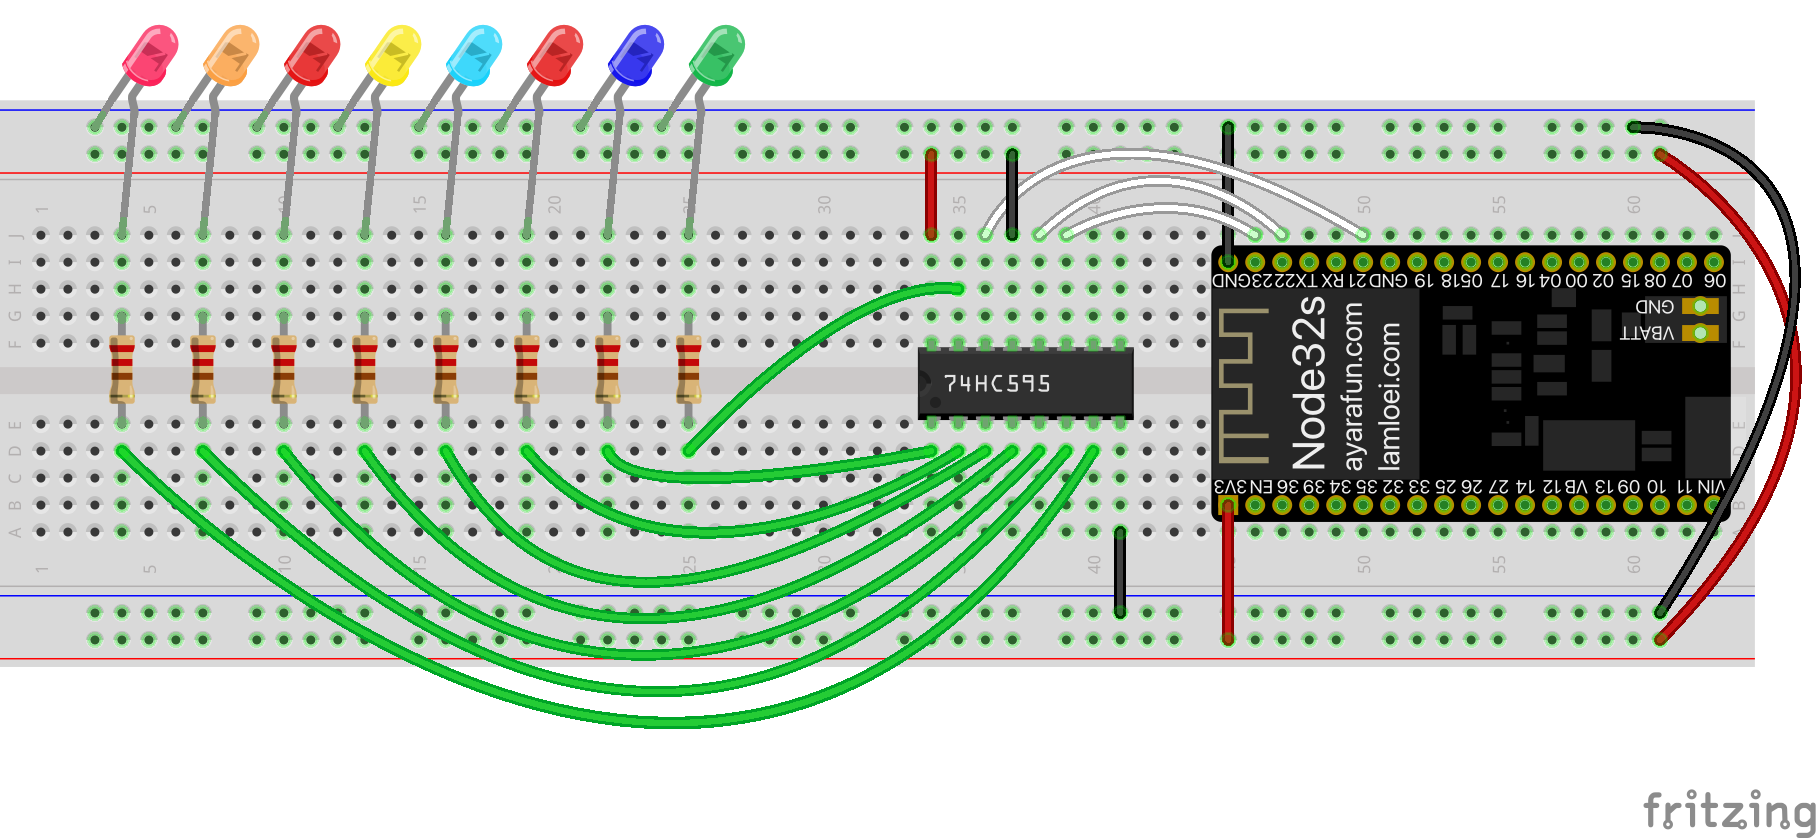
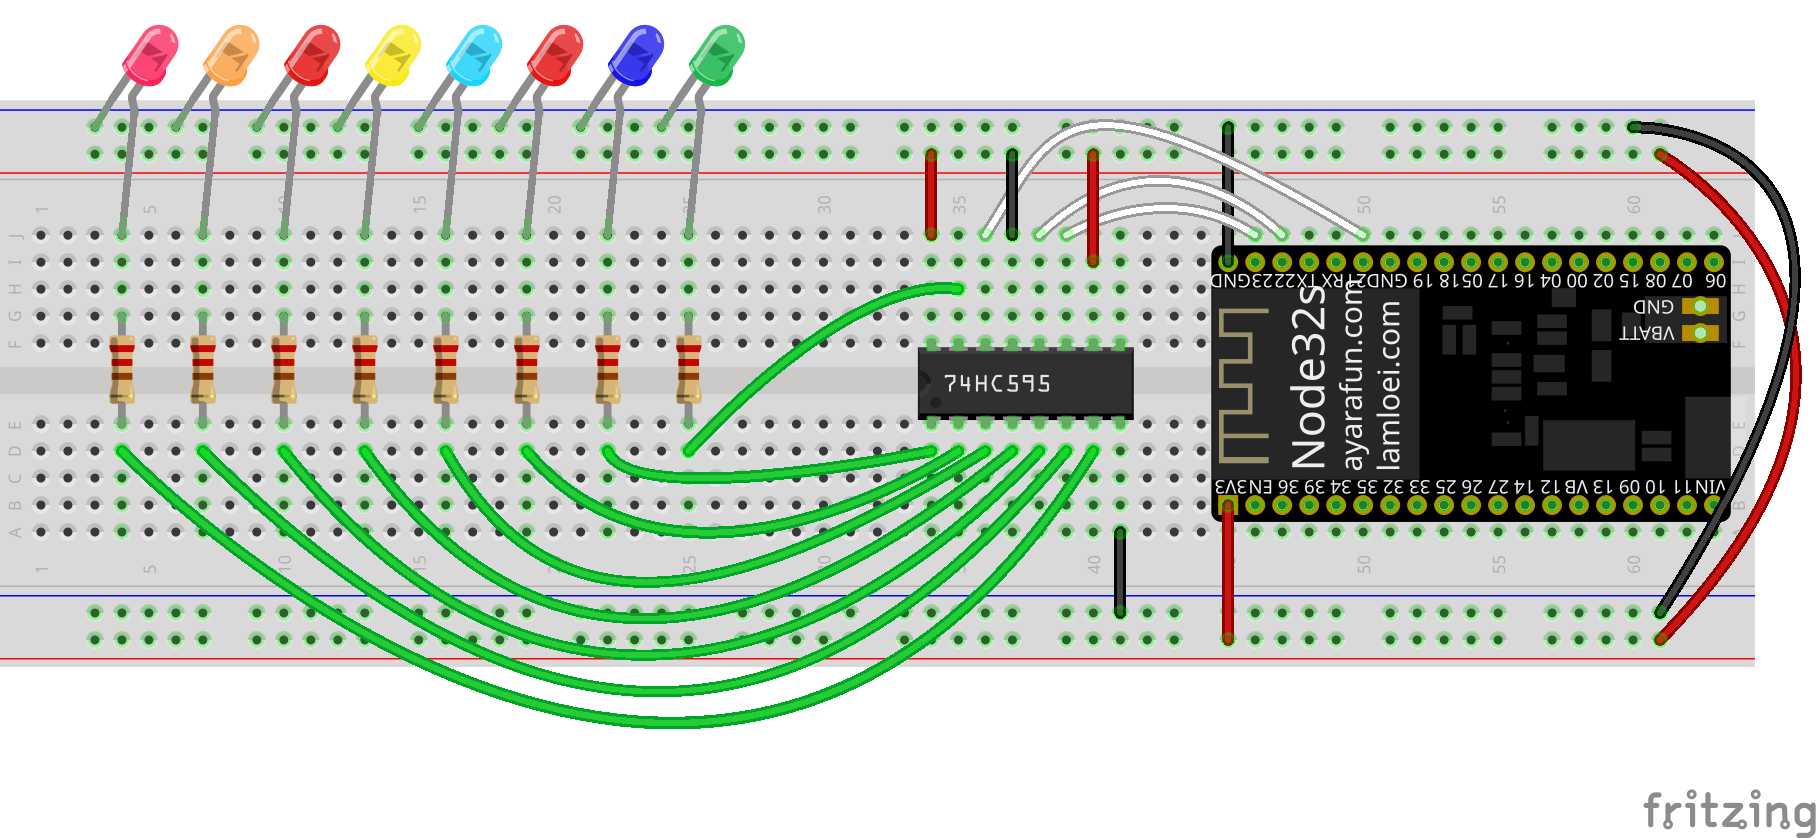
Fix shiftregister wiring diagram

Changed region(s): [[0.6476, 0.3103, 0.9559, 0.5895], [0.5551, 0.1241, 0.7401, 0.3103]]

diff --git a/06_shift_register/shift_register.cpp b/06_shift_register/shift_register.cpp
@@ -6,7 +6,6 @@ In the `loop()` function, create patterns for the LEDs in a `byte` variable,
 update the register, and add a delay to see the effect.
 */
 
-
 #include <Arduino.h>
 
 // Pin definitions for ESP32 and 74HC595
@@ -17,41 +16,50 @@ const int dataPin = 21;   // Pin connected to the DS pin of the 74HC595
 // Variable to hold the state of the LEDs (8 bits for 8 LEDs)
 byte leds = 0;
 
-void setup() {
- // Initialize the pins as outputs
- pinMode(latchPin, OUTPUT);
- pinMode(clockPin, OUTPUT);
- pinMode(dataPin, OUTPUT);
+// Function to update the shift register with the current state of the leds byte
+void updateShiftRegister() {
+  digitalWrite(latchPin, LOW);  // Set latch pin LOW to prevent changes while shifting
+  shiftOut(dataPin, clockPin, MSBFIRST, leds); // Send the byte to the shift register
+  digitalWrite(latchPin, HIGH); // Set latch pin HIGH to update the output pins
+}
 
- Serial.begin(9600); // Initialize serial communication for debugging
+void setup() {
+  // Initialize the pins as outputs
+  pinMode(latchPin, OUTPUT);
+  pinMode(clockPin, OUTPUT);
+  pinMode(dataPin, OUTPUT);
+  updateShiftRegister();
 }
 
 void loop() {
- // Example 1: Light up all LEDs one by one
- for (int i = 0; i < 8; i++) {
-   bitSet(leds, i); // Set the i-th bit to HIGH
-   updateShiftRegister();
-   delay(500); // Wait before turning on the next LED
- }
+  // Example 1: Light up all LEDs one by one
+  for (int i = 0; i < 8; i++) {
+    bitSet(leds, i); // Set the i-th bit to HIGH
+    updateShiftRegister();
+    delay(500); // Wait before turning on the next LED
+  }
 
- // Example 2: Turn off all LEDs
- leds = 0; // Reset all bits to LOW
- updateShiftRegister();
- delay(1000);
 
- // Example 3: Create a "Knight Rider" effect by moving a single LED
- for (int i = 0; i < 8; i++) {
-   byte pattern = 1 << i; // Create a pattern with only the i-th bit set
-   shiftOut(dataPin, clockPin, MSBFIRST, pattern); // Send the pattern to the shift register
-   digitalWrite(latchPin, HIGH);
-   digitalWrite(latchPin, LOW); // Latch the new pattern
-   delay(200);
- }
-}
+  // Example 2: Turn off all LEDs
+  leds = 0; // Reset all bits to LOW
+  updateShiftRegister();
+  delay(1000);
 
-// Function to update the shift register with the current state of the leds byte
-void updateShiftRegister() {
- digitalWrite(latchPin, LOW);  // Set latch pin LOW to prevent changes while shifting
- shiftOut(dataPin, clockPin, MSBFIRST, leds); // Send the byte to the shift register
- digitalWrite(latchPin, HIGH); // Set latch pin HIGH to update the output pins
+
+  // Example 3: Create a "Knight Rider" effect by moving a single LED
+  for (int i = 0; i < 8; i++) {
+
+    for (int i = 0; i < 8; i++) {
+      bitSet(leds, i);
+      updateShiftRegister();
+      bitClear(leds, i);
+      delay(200);
+    }
+    for (int i = 6; i > 0; i--) {  // Start from 6 to avoid repeating the end LED
+      bitSet(leds, i);
+      updateShiftRegister();
+      bitClear(leds, i);
+      delay(200);
+    }
+  }
 }

diff --git a/src/main.cpp b/src/main.cpp
@@ -1,74 +1,31 @@
+/*
+ * Usees an int array to store several 8 bit binary numbers that are used to 
+ * change the working state of the eight LEDs controlled by 74HC595.
+ * https://docs.sunfounder.com/projects/esp32-starter-kit/en/latest/arduino/basic_projects/ar_74hc595.html
+*/
+
 #include <Arduino.h>
-#include <Bounce2.h>
 
-// PUSHBUTTON
+const int STcp = 22;//ST_CP
+const int SHcp = 23;//SH_CP 
+const int DS = 21; //DS 
 
-const int BUTTON_PIN = 5;  // pushbutton pin
-const int LED_PIN =  16;    // LED pin
+int datArray[] = {B00000000, B00000001, B00000011, B00000111, B00001111, B00011111, B00111111, B01111111, B11111111};
 
-int lastButtonState = HIGH; // Stores pushbutton status (HIGH = 1, LOW = 0)
-int ledState = LOW;         // Tracks the current state of the LED.
-
-Bounce2::Button button = Bounce2::Button();
-
-
-// Light the LED when button is pressed (LOW)
-// Turns off LED when button is relesed (HIGH)
-void momentaryLight() {
-  int buttonState = digitalRead(BUTTON_PIN);
-
-  if (buttonState == LOW) {
-    digitalWrite(LED_PIN, HIGH);  // turn the LED on, button pressed
-  }
-  else {
-    digitalWrite(LED_PIN, LOW);  // turn the LED off, button released
-  }
+void setup ()
+{
+  //set pins to output
+  pinMode(STcp,OUTPUT);
+  pinMode(SHcp,OUTPUT);
+  pinMode(DS,OUTPUT);
 }
-
-void changeState() {
-  if (ledState == LOW) {
-    ledState = HIGH;
+void loop()
+{
+  for(int num = 0; num < 9; ++num)
+  {
+    digitalWrite(STcp,LOW); //ground ST_CP and hold low for as long as you are transmitting
+    shiftOut(DS,SHcp,MSBFIRST,datArray[num]);
+    digitalWrite(STcp,HIGH); //pull the ST_CPST_CP to save the data
+    delay(1000);
   }
-  else {
-    ledState = LOW;
-  }
-  digitalWrite(LED_PIN, ledState);
-}
-
-
-void lightSwitch(){
-  int buttonState = digitalRead(BUTTON_PIN);  // Pressing button = LOW, releasing = HIGH
-
-  if (buttonState != lastButtonState) {   // buttonState starts `HIGH`
-    lastButtonState = buttonState;         // If button pressed `buttonState` is set `LOW`
-    if (buttonState == HIGH) {             // Releasing button = HIGH and triggers event
-      changeState();
-    }
-  }
-}
-
-void lightSwitchDebounced(){
-  button.update();  // Update the button state
-
-  if (button.released()) {  // Check if the button was released
-    changeState();
-  }
-}
-
-void setup() {
-  // Set up the pushbutton pin to be an input.
-  // Activate internal pull-up resistor on button pin.
-  // pinMode(BUTTON_PIN, INPUT_PULLUP);
-
-  // Set up the LED pin to be an output:
-  pinMode(LED_PIN, OUTPUT);
-
-  button.attach(BUTTON_PIN, INPUT_PULLUP);
-  button.interval(25); // Debounce interval in ms
-}
-
-void loop() {
-  // momentaryLight();
-  // lightSwitch();
-  lightSwitchDebounced();
 }

diff --git a/06_shift_register/binary_array.cpp b/06_shift_register/binary_array.cpp
@@ -21,7 +21,7 @@ void setup ()
 }
 void loop()
 {
-  for(int num = 0; num <10; num++)
+  for(int num = 0; num < 9; num++)
   {
     digitalWrite(STcp,LOW); //ground ST_CP and hold low for as long as you are transmitting
     shiftOut(DS,SHcp,MSBFIRST,datArray[num]);
